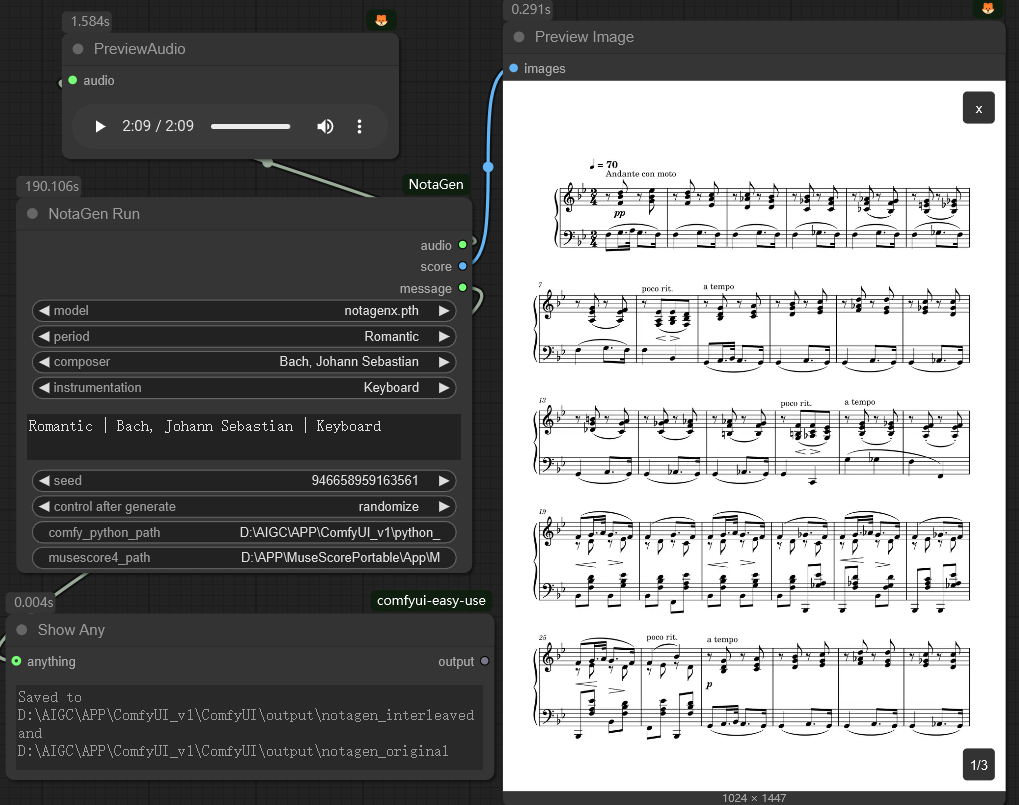
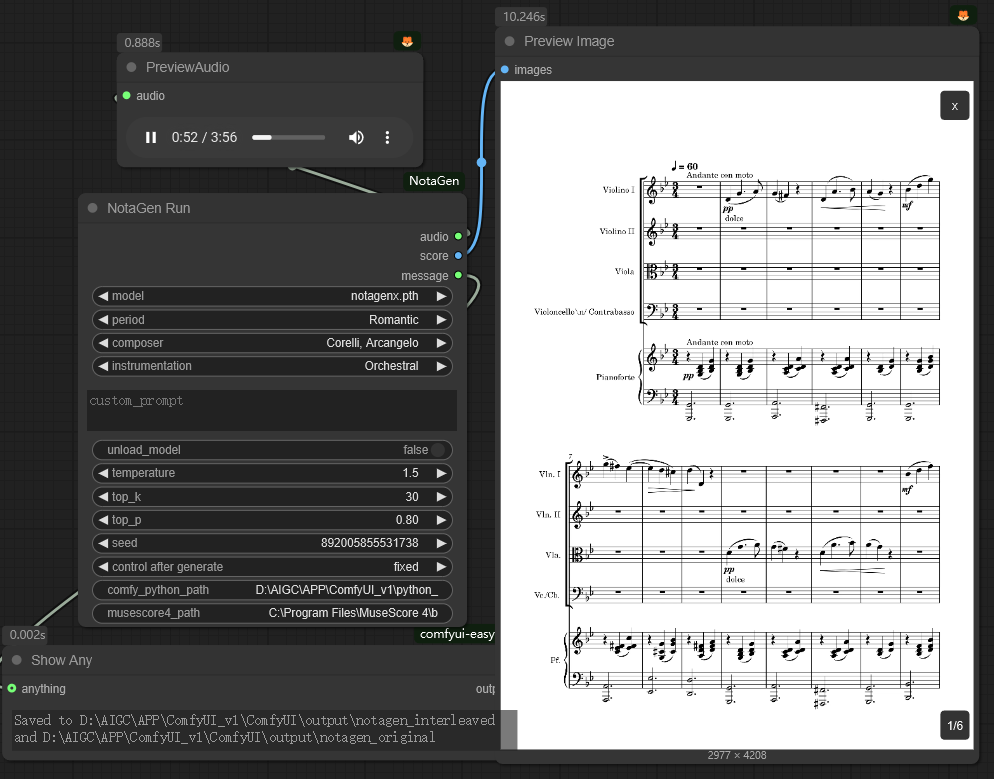
update v2.2.1

diff --git a/NotaGenNode.py b/NotaGenNode.py
@@ -38,44 +38,56 @@ class NotaGenRun:
     device = torch.device("cuda") if torch.cuda.is_available() else torch.device("cpu")
     nota_model_path = nota_model_path
     node_dir = node_dir
+
+    model_cache = None
     @classmethod
     def INPUT_TYPES(s):
-        
         return {
             "required": {
                 "model": (s.model_names, {"default": "notagenx.pth"}),
-                "period": (s.periods, {"default": "Romantic", }),
-                "composer": (s.composers, {"default": "Bach, Johann Sebastian", }),
-                "instrumentation": (s.instrumentations, {"default": "Keyboard", }),
-                "custom_prompt": ("STRING", {"default": "Romantic | Bach, Johann Sebastian | Keyboard", 
-                                             "multiline": True, 
-                                             "tooltip": "Custom prompt must <period>|<composer>|<instrumentation>."}),
-                # "num_samples": ("INT", {"default": 1, "min": 1}),
-                # "temperature": ("FLOAT", {"default": 0.8, "min": 0, "max": 1, "step": 0.1}),
-                # "top_k": ("INT", {"default": 50, "min": 0}),
-                # "top_p": ("FLOAT", {"default": 0.95, "min": 0, "max": 1, "step": 0.01}),
+                "period": (s.periods, {"default": "Romantic"}),
+                "composer": (s.composers, {"default": "Bach, Johann Sebastian"}),
+                "instrumentation": (s.instrumentations, {"default": "Keyboard"}),
+                "custom_prompt": ("STRING", {
+                    "default": "Romantic | Bach, Johann Sebastian | Keyboard", 
+                    "multiline": True, 
+                    "tooltip": "Custom prompt must follow format: <period>|<composer>|<instrumentation>"
+                }),
+                "unload_model":("BOOLEAN", {"default": False}),
+                "temperature": ("FLOAT", {"default": 0.8, "min": 0, "max": 5, "step": 0.1}),
+                "top_k": ("INT", {"default": 50, "min": 0}),
+                "top_p": ("FLOAT", {"default": 0.95, "min": 0, "max": 1, "step": 0.01}),
                 "seed": ("INT", {"default": 0, "min": 0, "max": 0xffffffffffffffff}),
-                "comfy_python_path": ("STRING", {"default": "", "multiline": False, "tooltip": "The absolute path of python.exe in the Comfyui environment"}),
-                # "audio_sheet_music": ("BOOLEAN", {"default": True}),
-                "musescore4_path": ("STRING", {"default": "", "tooltip": r"The absolute path as `D:\APP\MuseScorePortable\App\MuseScore\bin\MuseScore4.exe`"}),
-                # "abc2xml": ("BOOLEAN", {"default": True}),
+                "comfy_python_path": ("STRING", {
+                    "default": "", 
+                    "multiline": False, 
+                    "tooltip": "Absolute path of python.exe in ComfyUI environment"
+                }),
+                "musescore4_path": ("STRING", {
+                    "default": "", 
+                    "tooltip": r"Absolute path e.g. D:\APP\MuseScorePortable\App\MuseScore\bin\MuseScore4.exe"
+                }),
             },
         }
 
     RETURN_TYPES = ("AUDIO", "IMAGE", "STRING")
     RETURN_NAMES = ("audio", "score", "message")
     FUNCTION = "inference_patch"
-    CATEGORY = "MW-NotaGen"
+    CATEGORY = "MW/MW-NotaGen"
 
-    # Note_list = Note_list + ['z', 'x']
     def inference_patch(self, model, period, composer, instrumentation, 
                         custom_prompt,
-                        # num_samples, 
-                        # abc2xml, 
                         comfy_python_path, 
-                        # audio_sheet_music,
                         musescore4_path,
+                        unload_model,
+                        temperature,
+                        top_k,
+                        top_p,
                         seed):
+        if seed != 0:
+            torch.manual_seed(seed)
+            torch.cuda.manual_seed(seed)
+
         if model == "notagenx.pth" or model == "notagen_large.pth":
             cf = nota_lx
         elif model == "notagen_small.pth":
@@ -106,7 +118,11 @@ class NotaGenRun:
         print("Parameter Number: " + str(sum(p.numel() for p in nota_model.parameters() if p.requires_grad)))
 
         nota_model_path = os.path.join(self.nota_model_path, model)
-        checkpoint = torch.load(nota_model_path, map_location=torch.device(self.device))
+        if self.model_cache is None:
+            checkpoint = torch.load(nota_model_path, map_location=torch.device(self.device))
+            self.model_cache = checkpoint
+        else:
+            checkpoint = self.model_cache
         nota_model.load_state_dict(checkpoint['model'])
         nota_model = nota_model.to(self.device)
         nota_model.eval()
@@ -148,17 +164,17 @@ class NotaGenRun:
             tunebody_flag = False
             while True:
                 predicted_patch = nota_model.generate(input_patches.unsqueeze(0),
-                                                top_k=9,
-                                                top_p=0.9,
-                                                temperature=1.2)
+                                                top_k=top_k,
+                                                top_p=top_p,
+                                                temperature=temperature)
                 if not tunebody_flag and patchilizer.decode([predicted_patch]).startswith('[r:'):  # start with [r:0/
                     tunebody_flag = True
                     r0_patch = torch.tensor([ord(c) for c in '[r:0/']).unsqueeze(0).to(self.device)
                     temp_input_patches = torch.concat([input_patches, r0_patch], axis=-1)
                     predicted_patch = nota_model.generate(temp_input_patches.unsqueeze(0),
-                                                    top_k=9,
-                                                    top_p=0.9,
-                                                    temperature=1.2)
+                                                    top_k=top_k,
+                                                    top_p=top_p,
+                                                    temperature=temperature)
                     predicted_patch = [ord(c) for c in '[r:0/'] + predicted_patch
                 if predicted_patch[0] == patchilizer.bos_token_id and predicted_patch[1] == patchilizer.eos_token_id:
                     end_flag = True
@@ -319,6 +335,13 @@ class NotaGenRun:
             else:
                 image1 = self.get_empty_image()
 
+            if unload_model:
+                del patchilizer
+                del nota_model
+                del checkpoint
+                torch.cuda.empty_cache()
+                self.model_cache = None
+
             return (
                 audio,
                 image1,
@@ -326,16 +349,22 @@ class NotaGenRun:
             )
         
         else:
+            if unload_model:
+                del patchilizer
+                del nota_model
+                del checkpoint
+                torch.cuda.empty_cache()
+                self.model_cache = None
             print(f".abc and .xml was saved to {INTERLEAVED_OUTPUT_FOLDER} and {ORIGINAL_OUTPUT_FOLDER}")
             raise Exception("Conversion of .mp3 and .png failed, try again or check if MuseScore4 installation was successful.")
 
 
     def get_empty_audio(self):
-        """返回空音频"""
+        """Return empty audio"""
         return {"waveform": torch.zeros(1, 2, 1), "sample_rate": 44100}
 
     def get_empty_image(self):
-        """返回空图片"""
+        """Return empty image"""
         import numpy as np
         return torch.from_numpy(np.zeros((1, 64, 64, 3), dtype=np.float32))
 
@@ -429,7 +458,7 @@ class NotaGenRun:
         return unreduced_lines
 
     def wait_for_file(self, file_path, timeout=15, check_interval=0.3):
-        """等待文件生成完成"""
+        """Wait for file generation to complete"""
         start_time = time.time()
         
         while time.time() - start_time < timeout:
@@ -446,7 +475,7 @@ class NotaGenRun:
         return False
 
     def wait_for_png_sequence(self, base_path, timeout=15, check_interval=0.3):
-        """等待PNG序列生成完成"""
+        """Wait for PNG sequence generation to complete"""
         import glob
         
         start_time = time.time()

diff --git a/README.md b/README.md
@@ -8,6 +8,8 @@ https://github.com/user-attachments/assets/0671657f-e66b-4000-a0aa-48520f15b782
 
 ## 📣 Updates
 
+[2025-03-21] ⚒: Added more tunable parameters for more creative freedom. Optional model unloading.
+
 [2025-03-15]⚒: Supports Linux Ubuntu/Debian series, as well as servers, others untested, as well as servers.
 
 For local Linux computers, install `musescore` etc.:

diff --git a/README-CN.md b/README-CN.md
@@ -9,6 +9,8 @@ https://github.com/user-attachments/assets/0671657f-e66b-4000-a0aa-48520f15b782
 
 ## 📣 更新
 
+[2025-03-21]⚒: 增加更多可调参数, 更自由畅玩. 可选是否卸载模型.
+
 [2025-03-15]⚒: 支持 Linux Ubuntu/Debian 系列, 以及服务器, 其他未测试.
  
 本地 Linux 电脑, 安装 `musescore` 等:
